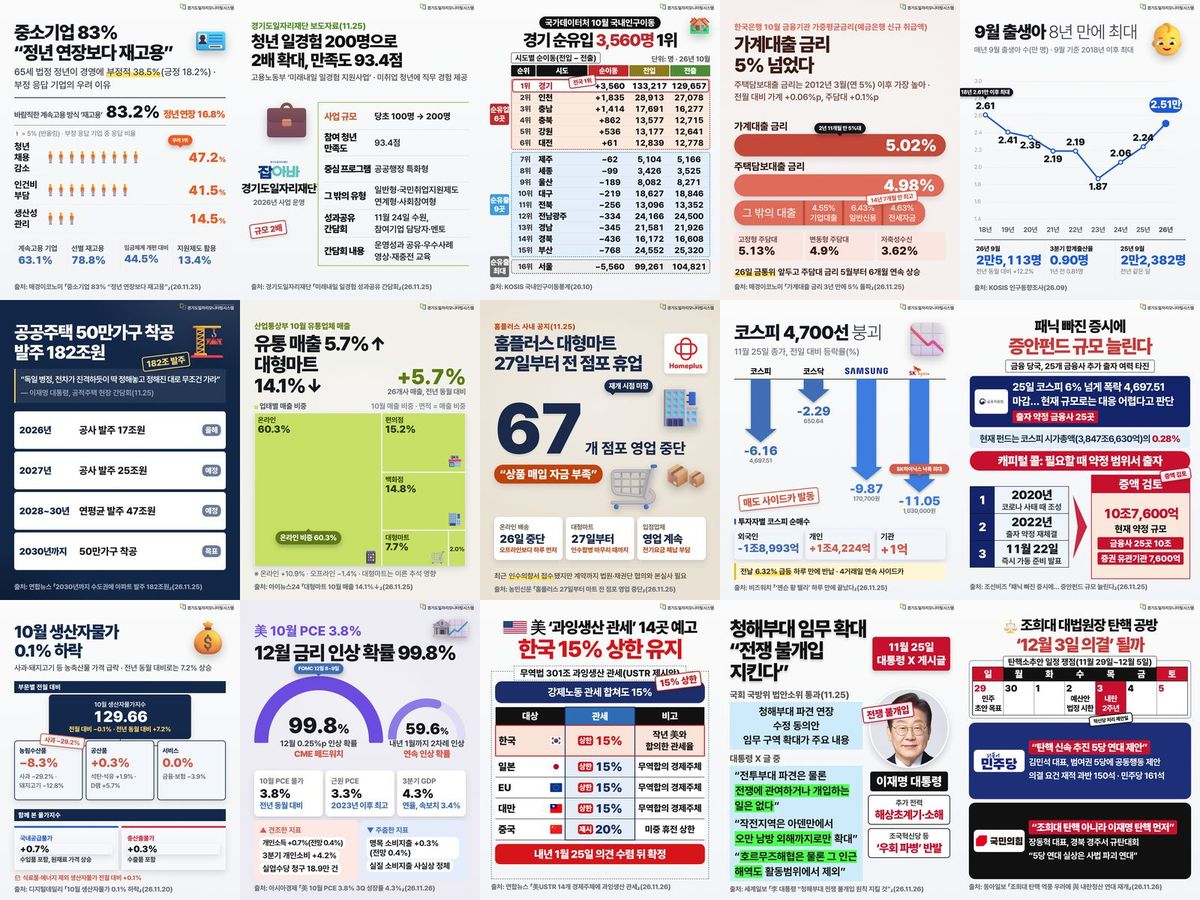
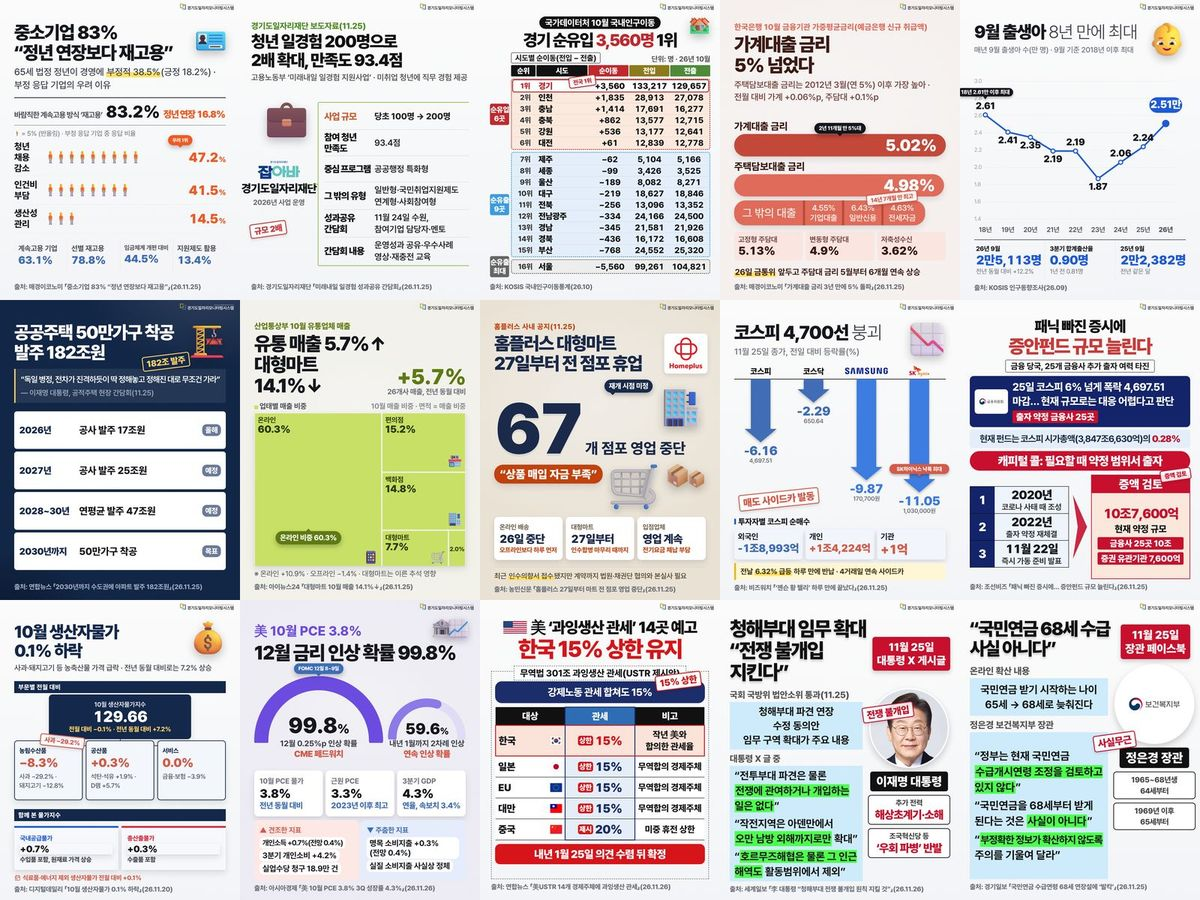
261126 웹페이지 최종 확정본 갱신
Claude-Session: https://claude.ai/code/session_015uJhCNrDWWmcdcuyJ6yurw

Changed region(s): [[0.8017, 0.6844, 1.0, 0.9956]]

diff --git a/daily/2026-11-26/index.html b/daily/2026-11-26/index.html
@@ -1,7 +1,7 @@
 <!doctype html><html lang="ko"><head><meta charset="utf-8"><meta name="viewport" content="width=device-width,initial-scale=1"><title>11.26.(목) 데일리 그래픽뉴스 | 경기도일자리모니터링시스템</title>
 <meta property="og:title" content="11.26.(목) 데일리 그래픽뉴스 | 경기도일자리모니터링시스템"><meta property="og:description" content="오늘의 일자리·경제 뉴스·통계 15건, 제목과 출처를 확인하세요"><meta property="og:image" content="https://gjfdata.github.io/daily/2026-11-26/preview.jpg"><meta property="og:url" content="https://gjfdata.github.io/daily/2026-11-26/"><meta property="og:type" content="website"><meta name="description" content="오늘의 일자리·경제 뉴스·통계 15건, 제목과 출처를 확인하세요">
 <link rel="stylesheet" href="https://cdn.jsdelivr.net/gh/orioncactus/pretendard@v1.3.9/dist/web/static/pretendard.css"><link rel="stylesheet" href="../../assets/style.css"></head><body><div class="w"><img class="ci" src="../../assets/ci.png" alt="경기도일자리모니터링시스템"><h1>11.26.(목) 데일리 그래픽뉴스</h1><p class="sub">오늘의 일자리·경제 뉴스·통계 15건</p><p class="views" data-views="/daily/2026-11-26/" data-label="조회수" hidden></p>
-<div class="grid"><button data-card="cards/01.jpg" aria-label="01번 카드 크게 보기"><img src="cards/01.jpg" alt="01번 카드: 중소기업 83% “정년 연장보다 재고용”" loading="lazy"><span>01</span></button><button data-card="cards/02.jpg" aria-label="02번 카드 크게 보기"><img src="cards/02.jpg" alt="02번 카드: 청년 일경험 200명으로 2배 확대, 만족도 93.4점" loading="lazy"><span>02</span></button><button data-card="cards/03.jpg" aria-label="03번 카드 크게 보기"><img src="cards/03.jpg" alt="03번 카드: 경기 순유입 3,560명 1위(10월 국내인구이동)" loading="lazy"><span>03</span></button><button data-card="cards/04.jpg" aria-label="04번 카드 크게 보기"><img src="cards/04.jpg" alt="04번 카드: 가계대출 금리 5% 넘었다" loading="lazy"><span>04</span></button><button data-card="cards/05.jpg" aria-label="05번 카드 크게 보기"><img src="cards/05.jpg" alt="05번 카드: 9월 출생아 2만5,113명, 9월 기준 8년 만에 최대" loading="lazy"><span>05</span></button><button data-card="cards/06.jpg" aria-label="06번 카드 크게 보기"><img src="cards/06.jpg" alt="06번 카드: 수도권 공공주택 50만가구 착공, 발주 182조" loading="lazy"><span>06</span></button><button data-card="cards/07.jpg" aria-label="07번 카드 크게 보기"><img src="cards/07.jpg" alt="07번 카드: 유통 매출 5.7%↑ 대형마트만 14.1%↓" loading="lazy"><span>07</span></button><button data-card="cards/08.jpg" aria-label="08번 카드 크게 보기"><img src="cards/08.jpg" alt="08번 카드: 홈플러스 대형마트 27일부터 전 점포 휴업" loading="lazy"><span>08</span></button><button data-card="cards/09.jpg" aria-label="09번 카드 크게 보기"><img src="cards/09.jpg" alt="09번 카드: 코스피 4,700선 붕괴, 6.16% 급락" loading="lazy"><span>09</span></button><button data-card="cards/10.jpg" aria-label="10번 카드 크게 보기"><img src="cards/10.jpg" alt="10번 카드: 증안펀드 규모 늘린다" loading="lazy"><span>10</span></button><button data-card="cards/11.jpg" aria-label="11번 카드 크게 보기"><img src="cards/11.jpg" alt="11번 카드: 10월 생산자물가 0.1% 하락" loading="lazy"><span>11</span></button><button data-card="cards/12.jpg" aria-label="12번 카드 크게 보기"><img src="cards/12.jpg" alt="12번 카드: 美 10월 PCE 3.8%, 12월 금리 인상 확률 99.8%" loading="lazy"><span>12</span></button><button data-card="cards/13.jpg" aria-label="13번 카드 크게 보기"><img src="cards/13.jpg" alt="13번 카드: 美 과잉생산 관세 14곳 예고, 한국 15% 상한 유지" loading="lazy"><span>13</span></button><button data-card="cards/14.jpg" aria-label="14번 카드 크게 보기"><img src="cards/14.jpg" alt="14번 카드: 청해부대 임무 확대 “전쟁 불개입 지킨다”" loading="lazy"><span>14</span></button><button data-card="cards/15.jpg" aria-label="15번 카드 크게 보기"><img src="cards/15.jpg" alt="15번 카드: 조희대 대법원장 탄핵 공방 ‘12월 3일 의결’ 될까" loading="lazy"><span>15</span></button></div><p class="hint">카드를 누르면 한 장씩 크게 볼 수 있습니다.</p><ol>
+<div class="grid"><button data-card="cards/01.jpg" aria-label="01번 카드 크게 보기"><img src="cards/01.jpg" alt="01번 카드: 중소기업 83% “정년 연장보다 재고용”" loading="lazy"><span>01</span></button><button data-card="cards/02.jpg" aria-label="02번 카드 크게 보기"><img src="cards/02.jpg" alt="02번 카드: 청년 일경험 200명으로 2배 확대, 만족도 93.4점" loading="lazy"><span>02</span></button><button data-card="cards/03.jpg" aria-label="03번 카드 크게 보기"><img src="cards/03.jpg" alt="03번 카드: 경기 순유입 3,560명 1위(10월 국내인구이동)" loading="lazy"><span>03</span></button><button data-card="cards/04.jpg" aria-label="04번 카드 크게 보기"><img src="cards/04.jpg" alt="04번 카드: 가계대출 금리 5% 넘었다" loading="lazy"><span>04</span></button><button data-card="cards/05.jpg" aria-label="05번 카드 크게 보기"><img src="cards/05.jpg" alt="05번 카드: 9월 출생아 2만5,113명, 9월 기준 8년 만에 최대" loading="lazy"><span>05</span></button><button data-card="cards/06.jpg" aria-label="06번 카드 크게 보기"><img src="cards/06.jpg" alt="06번 카드: 수도권 공공주택 50만가구 착공, 발주 182조" loading="lazy"><span>06</span></button><button data-card="cards/07.jpg" aria-label="07번 카드 크게 보기"><img src="cards/07.jpg" alt="07번 카드: 유통 매출 5.7%↑ 대형마트만 14.1%↓" loading="lazy"><span>07</span></button><button data-card="cards/08.jpg" aria-label="08번 카드 크게 보기"><img src="cards/08.jpg" alt="08번 카드: 홈플러스 대형마트 27일부터 전 점포 휴업" loading="lazy"><span>08</span></button><button data-card="cards/09.jpg" aria-label="09번 카드 크게 보기"><img src="cards/09.jpg" alt="09번 카드: 코스피 4,700선 붕괴, 6.16% 급락" loading="lazy"><span>09</span></button><button data-card="cards/10.jpg" aria-label="10번 카드 크게 보기"><img src="cards/10.jpg" alt="10번 카드: 증안펀드 규모 늘린다" loading="lazy"><span>10</span></button><button data-card="cards/11.jpg" aria-label="11번 카드 크게 보기"><img src="cards/11.jpg" alt="11번 카드: 10월 생산자물가 0.1% 하락" loading="lazy"><span>11</span></button><button data-card="cards/12.jpg" aria-label="12번 카드 크게 보기"><img src="cards/12.jpg" alt="12번 카드: 美 10월 PCE 3.8%, 12월 금리 인상 확률 99.8%" loading="lazy"><span>12</span></button><button data-card="cards/13.jpg" aria-label="13번 카드 크게 보기"><img src="cards/13.jpg" alt="13번 카드: 美 과잉생산 관세 14곳 예고, 한국 15% 상한 유지" loading="lazy"><span>13</span></button><button data-card="cards/14.jpg" aria-label="14번 카드 크게 보기"><img src="cards/14.jpg" alt="14번 카드: 청해부대 임무 확대 “전쟁 불개입 지킨다”" loading="lazy"><span>14</span></button><button data-card="cards/15.jpg" aria-label="15번 카드 크게 보기"><img src="cards/15.jpg" alt="15번 카드: “국민연금 68세 수급 사실 아니다”" loading="lazy"><span>15</span></button></div><p class="hint">카드를 누르면 한 장씩 크게 볼 수 있습니다.</p><ol>
 <li><span class="n"><button data-card="cards/01.jpg" aria-label="01번 카드 크게 보기">01</button></span><div><b>중소기업 83% “정년 연장보다 재고용”</b><span class="s"><a href="https://n.news.naver.com/article/024/0000109885" target="_blank" rel="noopener">매경이코노미 「중소기업 83% “정년 연장보다 재고용”」(26.11.25)</a></span></div></li>
 <li><span class="n"><button data-card="cards/02.jpg" aria-label="02번 카드 크게 보기">02</button></span><div><b>청년 일경험 200명으로 2배 확대, 만족도 93.4점</b><span class="s"><a href="https://www.gjf.or.kr/main/pst/view.do?pst_id=news_data&amp;pst_sn=203473" target="_blank" rel="noopener">경기도일자리재단 「미래내일 일경험 성과공유 간담회」(26.11.25)</a></span></div></li>
 <li><span class="n"><button data-card="cards/03.jpg" aria-label="03번 카드 크게 보기">03</button></span><div><b>경기 순유입 3,560명 1위(10월 국내인구이동)</b><span class="s"><a href="https://kosis.kr/statHtml/statHtml.do?orgId=101&amp;tblId=DT_1B26001_A02" target="_blank" rel="noopener">KOSIS 국내인구이동통계(26.10)</a></span></div></li>
@@ -16,6 +16,6 @@
 <li><span class="n"><button data-card="cards/12.jpg" aria-label="12번 카드 크게 보기">12</button></span><div><b>美 10월 PCE 3.8%, 12월 금리 인상 확률 99.8%</b><span class="s"><a href="https://n.news.naver.com/article/277/0005847891" target="_blank" rel="noopener">아시아경제 「美 10월 PCE 3.8% 3Q 성장률 4.3%」(26.11.26)</a></span></div></li>
 <li><span class="n"><button data-card="cards/13.jpg" aria-label="13번 카드 크게 보기">13</button></span><div><b>美 과잉생산 관세 14곳 예고, 한국 15% 상한 유지</b><span class="s"><a href="https://n.news.naver.com/article/001/0016463973" target="_blank" rel="noopener">연합뉴스 「美USTR 14개 경제주체에 과잉생산 관세」(26.11.26)</a></span></div></li>
 <li><span class="n"><button data-card="cards/14.jpg" aria-label="14번 카드 크게 보기">14</button></span><div><b>청해부대 임무 확대 “전쟁 불개입 지킨다”</b><span class="s"><a href="https://n.news.naver.com/mnews/article/022/0004178212" target="_blank" rel="noopener">세계일보 「李 대통령 “청해부대 전쟁 불개입 원칙 지킬 것”」(26.11.26)</a></span></div></li>
-<li><span class="n"><button data-card="cards/15.jpg" aria-label="15번 카드 크게 보기">15</button></span><div><b>조희대 대법원장 탄핵 공방 ‘12월 3일 의결’ 될까</b><span class="s">동아일보 「조희대 탄핵 역풍 우려에 與 내란청산 연대 재개」(26.11.26) — <a href="https://n.news.naver.com/mnews/article/020/0003765290" target="_blank" rel="noopener">민주당·국민의힘 입장(동아일보)</a> · <a href="https://n.news.naver.com/mnews/article/079/0004213949" target="_blank" rel="noopener">탄핵안 일정·예산안 시한(노컷뉴스)</a></span></div></li>
+<li><span class="n"><button data-card="cards/15.jpg" aria-label="15번 카드 크게 보기">15</button></span><div><b>“국민연금 68세 수급 사실 아니다”</b><span class="s"><a href="https://n.news.naver.com/article/666/0000133836" target="_blank" rel="noopener">경기일보 「국민연금 수급연령 68세 연장설에 ‘발칵’」(26.11.25)</a></span></div></li>
 </ol><div class="cta"><div>경기도 31개 시군 일자리 통계는 경기도일자리모니터링시스템에서 확인하세요</div><a class="btn" href="https://stats.gjf.or.kr/open/dashboard/dashboard.do?utm_source=dailynews&amp;utm_medium=webpage&amp;utm_campaign=261126" target="_blank" rel="noopener">stats.gjf.or.kr 바로가기</a></div>
 <p class="note">본 카드뉴스는 AI를 활용해 제작하고 경기도일자리재단 데이터팀이 검수하였습니다. 수치 인용 시 원문을 확인해 주시기 바랍니다.</p><p class="note"><a class="list" href="../../">지난 데일리 그래픽뉴스 목록</a></p></div><script src="../../assets/lightbox.js" defer></script><script src="../../assets/views.js" defer></script></body></html>
